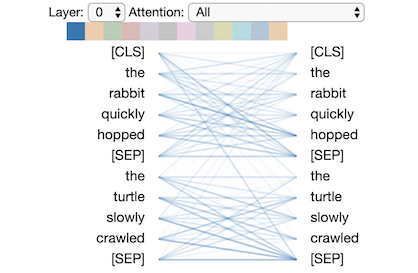
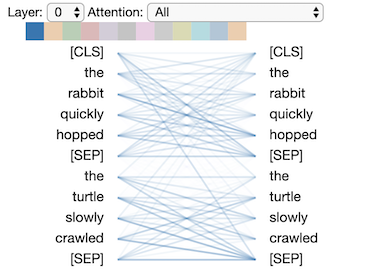
Update image for attention-head view.

diff --git a/README.md b/README.md
@@ -14,7 +14,7 @@ Paper:
 
 The *attention-head view* visualizes the attention patterns produced by one or more attention heads in a given transformer layer.
 
-![Attention-head view](https://raw.githubusercontent.com/jessevig/bertviz/master/images/attention_head_thumbnail.jpeg)
+![Attention-head view](https://raw.githubusercontent.com/jessevig/bertviz/master/images/head_thumbnail_left.png) ![Attention-head view animated](https://raw.githubusercontent.com/jessevig/bertviz/master/images/head_thumbnail_right.gif)
 
  BERT:
  [[Notebook]](https://github.com/jessevig/bertviz/blob/master/head_view_bert.ipynb)
